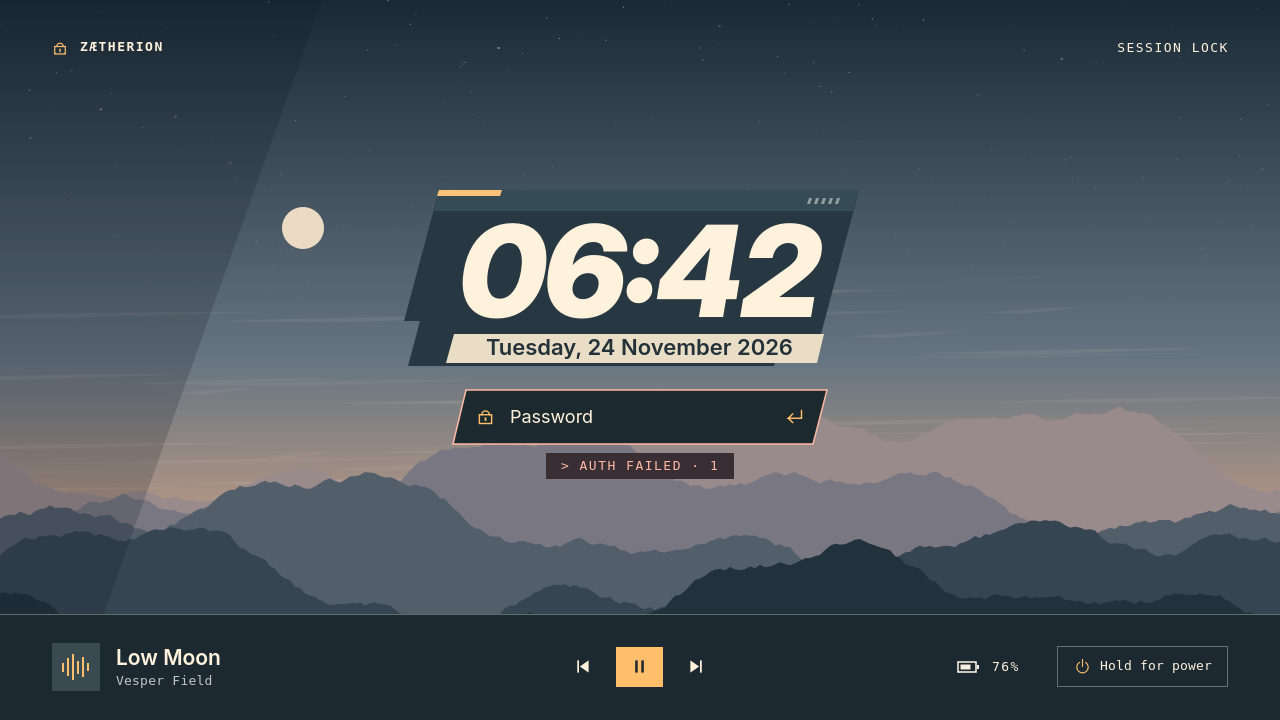
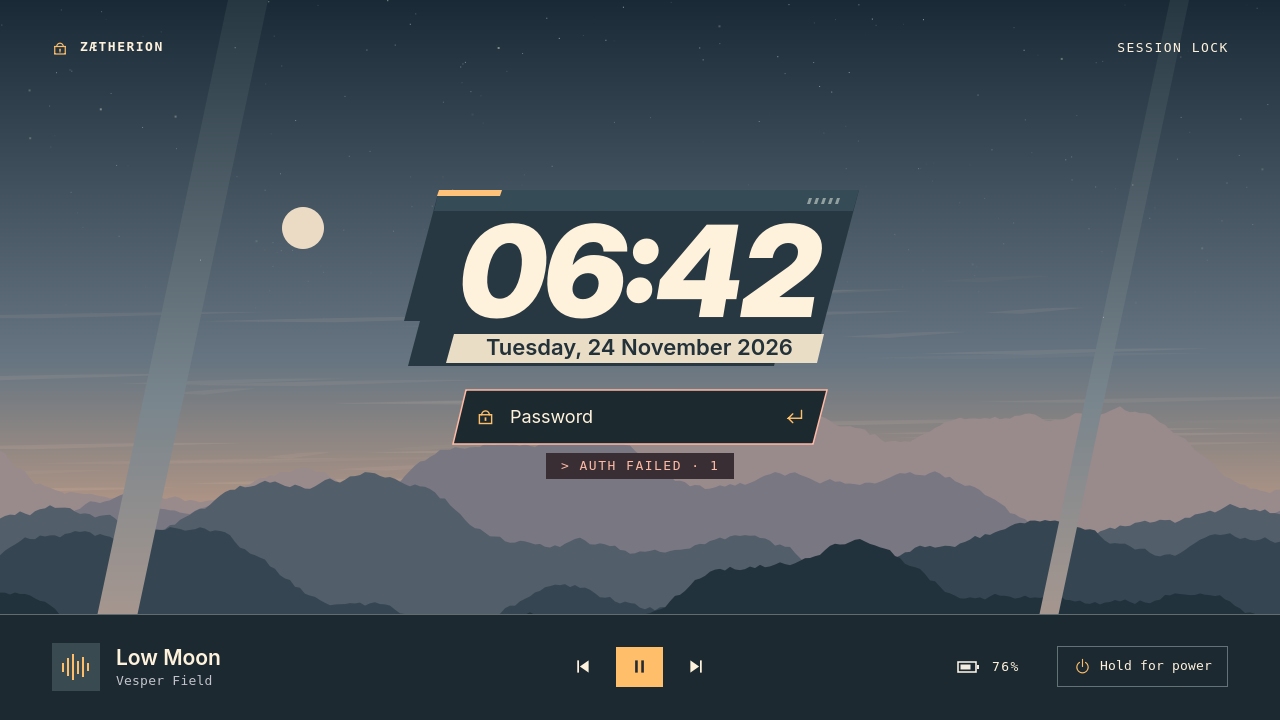
Reveal fixture sky through both lock wallpaper cuts

Changed region(s): [[0.0, 0.3361, 0.1875, 0.8556], [0.8125, 0.7333, 0.8438, 0.8556], [0.8438, 0.5806, 0.875, 0.6111]]

diff --git a/tools/password-lock-study/Sky.qml b/tools/password-lock-study/Sky.qml
@@ -59,19 +59,24 @@ Canvas {
             c.fillStyle = tones[j]
             c.fill()
         }
-        c.fillStyle = "rgba(12,18,28,0.18)"
+        // Z81/Z89: two 78-degree openings through the landscape to the fixture sky.
+        // Each continues across the ridge, so the lower segment reveals sky as well.
+        c.save()
         c.beginPath()
-        if (fluid) {
-            c.moveTo(0, 0)
-            c.lineTo(330, 0)
-            c.bezierCurveTo(15, 205, 105, 465, 0, 593)
-        } else {
-            c.moveTo(0, 0)
-            c.lineTo(322, 0)
-            c.lineTo(66, 720)
-            c.lineTo(0, 720)
+        for (const [top, span] of [[228, 40], [1170, 19]]) {
+            c.moveTo(top, 0); c.lineTo(top + span, 0)
+            c.lineTo(top + span - 153, 720); c.lineTo(top - 153, 720); c.closePath()
         }
-        c.closePath()
-        c.fill()
+        c.clip()
+        const aperture = c.createLinearGradient(0, 0, 0, 720)
+        aperture.addColorStop(0, fluid ? "#24263d" : "#263742")
+        aperture.addColorStop(0.55, fluid ? "#776c88" : "#78858d")
+        aperture.addColorStop(1, fluid ? "#b19aa4" : "#bc9f90")
+        c.fillStyle = aperture; c.fillRect(0, 0, 1280, 720)
+        for (let i = 0; i < 200; i++) {
+            c.fillStyle = "rgba(249,239,222,0.45)"
+            c.fillRect(random()*1280, random()*320, 1, 1)
+        }
+        c.restore()
     }
 }
